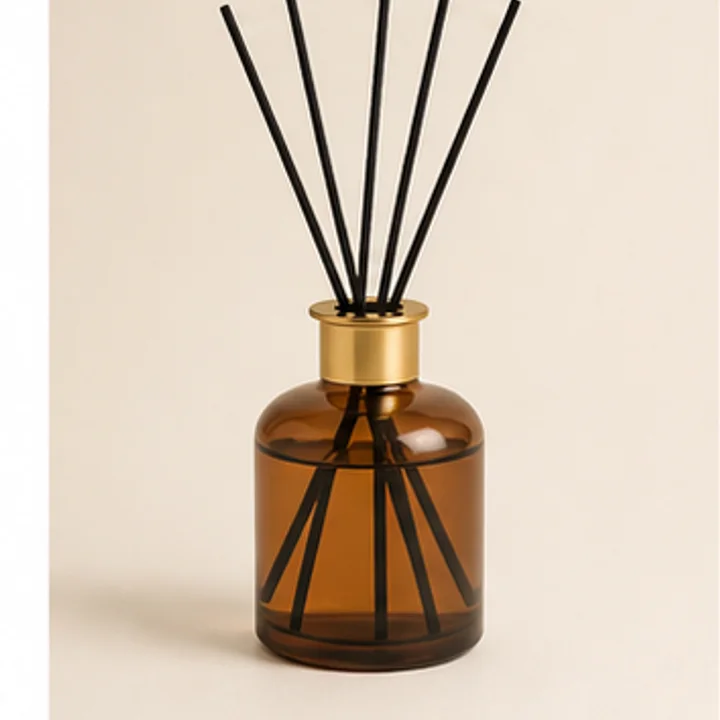
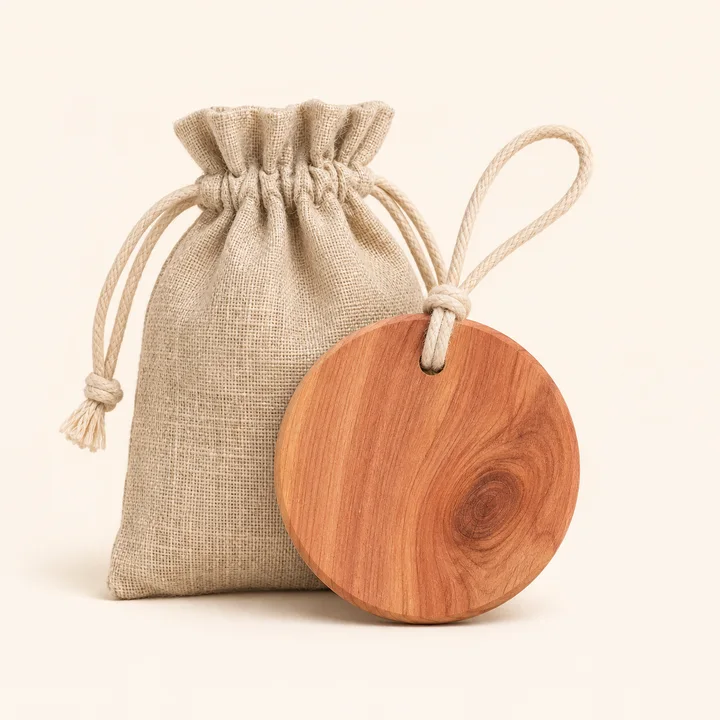
timehouseholdlifehall

diff --git a/src/main.jsx b/src/main.jsx
@@ -4,10 +4,10 @@ import './styles.css'
 
 const groups = [
   ['Furniture', [['沙发', 'Sora Linen Sofa', '浅沙色亚麻三人沙发', 899], ['床', 'Mori Platform Bed', '橡木低台双人床', 799], ['衣柜', 'Haven Wardrobe', '烟熏橡木双门衣柜', 699], ['餐桌', 'Forma Dining Table', '胡桃木六人餐桌', 649], ['茶几', 'Arc Coffee Table', '弧形橡木茶几', 299], ['电视柜', 'Line TV Cabinet', '藤编门电视柜', 429], ['斗柜', 'Stack Chest', '五斗抽屉柜', 589], ['餐边柜', 'Noma Sideboard', '奶油色餐边柜', 539], ['书柜', 'Grid Bookcase', '开放式模块书柜', 459], ['书桌', 'Plain Writing Desk', '极简木质书桌', 329]]],
-  ['Soft Furnishings', [['椅子', 'Dune Lounge Chair', '沙色休闲椅', 259], ['餐椅', 'Oak Dining Chair', '弯木餐椅', 159], ['梳妆台', 'Mira Vanity', '带抽屉梳妆台', 379], ['床头柜', 'Nook Nightstand', '圆角床头柜', 189], ['鞋柜', 'Tuck Shoe Cabinet', '窄型翻斗鞋柜', 279], ['玄关柜', 'Entry Console', '玄关收纳台', 319], ['休闲椅', 'Cove Accent Chair', '鼠尾草绿休闲椅', 289], ['酒柜', 'Cellar Bar Cabinet', '小型木质酒柜', 499], ['储物柜', 'Fold Storage Cabinet', '折叠门储物柜', 349], ['户外桌椅', 'Patio Bistro Set', '户外藤编桌椅套装', 399]]],
+  ['Soft Furnishings', [['餐椅', 'Oak Dining Chair', '弯木餐椅', 159], ['梳妆台', 'Mira Vanity', '带抽屉梳妆台', 379], ['床头柜', 'Nook Nightstand', '圆角床头柜', 189], ['鞋柜', 'Tuck Shoe Cabinet', '窄型翻斗鞋柜', 279], ['玄关柜', 'Entry Console', '玄关收纳台', 319], ['休闲椅', 'Cove Accent Chair', '鼠尾草绿休闲椅', 289], ['酒柜', 'Cellar Bar Cabinet', '小型木质酒柜', 499], ['储物柜', 'Fold Storage Cabinet', '折叠门储物柜', 349], ['户外桌椅', 'Patio Bistro Set', '户外藤编桌椅套装', 399], ['折叠床', 'Foldaway Guest Bed', '便携折叠床', 249]]],
   ['Daily Living', [['床上四件套', 'Cloud Cotton Bedding', '纯棉暖白四件套', 119], ['收纳箱', 'Canvas Storage Trunk', '帆布盖式收纳箱', 49], ['地垫', 'Pebble Floor Mat', '鹅卵石纹入户地垫', 39], ['被子', 'Airy Summer Quilt', '轻柔夏凉被', 89], ['枕头', 'Rest Support Pillow', '高弹支撑枕', 45], ['床笠', 'Washed Fitted Sheet', '水洗棉床笠', 59], ['浴巾', 'Terry Bath Towel', '厚绒纯棉浴巾', 35], ['浴袍', 'Navy Cloud Robe', '深海军蓝纯棉浴袍', 69], ['洗衣篮', 'Loop Laundry Basket', '编织双耳洗衣篮', 59], ['收纳盒', 'Clear Stack Box', '布艺堆叠收纳盒', 29]]],
-  ['Decor & Lighting', [['收纳袋', 'Linen Storage Bag', '亚麻衣物收纳袋', 25], ['衣架', 'Natural Hangers', '天然木质衣架套装', 25], ['防尘罩', 'Garment Dust Cover', '衣物防尘罩', 19], ['纸巾盒', 'Woven Tissue Cover', '藤编纸巾盒', 29], ['家居拖鞋', 'Quiet House Slippers', '软底家居拖鞋', 25], ['香薰', 'Scented Wood Sachet', '天然木片香薰挂饰', 39], ['台灯', 'Moss Table Lamp', '布艺暖光台灯', 79], ['落地灯', 'Arc Floor Lamp', '弧形落地灯', 149], ['壁灯', 'Brass Wall Light', '拉丝金属壁灯', 99], ['装饰时钟', 'Tempo Clock', '静音装饰时钟', 59]]],
-  ['Kitchen & Bath', [['木质装饰托盘', 'Walnut Decor Tray', '天然胡桃木装饰托盘', 49], ['烛台', 'Wooden Candle Stand', '木质烛台', 35], ['雕塑摆件', 'Bamboo Form Sculpture', '竹木几何雕塑摆件', 59], ['餐垫', 'Woven Placemat', '天然纤维餐垫四件套', 35], ['桌布', 'Washed Tablecloth', '水洗棉桌布', 49], ['隔热垫', 'Braided Trivet', '编织隔热垫', 19], ['厨房置物架', 'Counter Shelf', '双层厨房置物架', 49], ['浴帘', 'Clay Shower Curtain', '陶土色浴帘', 59], ['浴室防滑垫', 'Cloud Bath Mat', '雾蓝浴室防滑垫', 39], ['毛巾架', 'Brushed Towel Rail', '拉丝金属毛巾架', 45]]],
+  ['Decor & Lighting', [['收纳箱', 'Canvas Storage Trunk', '帆布盖式收纳箱', 49], ['衣架', 'Natural Hangers', '天然木质衣架套装', 25], ['防尘罩', 'Garment Dust Cover', '衣物防尘罩', 19], ['纸巾盒', 'Woven Tissue Cover', '藤编纸巾盒', 29], ['家居拖鞋', 'Quiet House Slippers', '软底家居拖鞋', 25], ['香薰', 'Scented Wood Sachet', '天然木片香薰挂饰', 39], ['台灯', 'Moss Table Lamp', '布艺暖光台灯', 79], ['落地灯', 'Arc Floor Lamp', '弧形落地灯', 149], ['壁灯', 'Brass Wall Light', '拉丝金属壁灯', 99], ['装饰时钟', 'Tempo Clock', '静音装饰时钟', 59]]],
+  ['Kitchen & Bath', [['木质装饰托盘', 'Walnut Decor Tray', '天然胡桃木装饰托盘', 49], ['烛台', 'Brass Candle Holder', '拉丝黄铜烛台', 35], ['雕塑摆件', 'Sculptural Ornament', '抽象造型装饰摆件', 59], ['餐垫', 'Woven Placemat', '天然纤维餐垫四件套', 35], ['桌布', 'Washed Tablecloth', '水洗棉桌布', 49], ['隔热垫', 'Braided Trivet', '编织隔热垫', 19], ['厨房置物架', 'Counter Shelf', '双层厨房置物架', 49], ['浴帘', 'Clay Shower Curtain', '陶土色浴帘', 59], ['浴室防滑垫', 'Cloud Bath Mat', '雾蓝浴室防滑垫', 39], ['毛巾架', 'Brushed Towel Rail', '拉丝金属毛巾架', 45]]],
 ]
 const products = groups.flatMap(([category, items], groupIndex) => items.map(([type, name, description, price], index) => ({ id: groupIndex * 10 + index + 1, category, type, name, description, price, image: `catalog-${String(groupIndex * 10 + index + 1).padStart(2, '0')}.webp` })))
 const policyData = { payment: ['付款政策', '支持 PayPal、Visa 与信用卡选项。当前结算页为演示流程，提交后不会产生真实扣款。正式上线前请接入支付服务商账户、服务器订单校验与退款流程。'], returns: ['退货与退款', '签收后 14 天内可提交退货申请。商品须保持未使用、未清洗并保留完整包装。审核通过后按原支付方式退款。'], cancellation: ['取消政策', '订单尚未进入发货流程前可联系客服取消。已发货订单需按照退货流程处理。'], about: ['关于我们', '汝州市典辰商贸有限公司致力于为日常生活提供实用、耐看、易融入空间的家居用品。'], shipping: ['发货政策', '订单确认后通常在 2–5 个工作日内处理。大件家具的运输时间与费用以结算页显示为准。'], tracking: ['订单追踪', '发货后我们会通过订单邮箱发送物流单号。演示站暂不连接真实物流接口。'], terms: ['服务条款（17 个部分）', '1. 条款接受\n2. 网站使用\n3. 商品信息\n4. 价格与库存\n5. 订单确认\n6. 付款方式\n7. 配送范围\n8. 收货验货\n9. 退货申请\n10. 退款处理\n11. 取消订单\n12. 知识产权\n13. 用户内容\n14. 隐私与数据\n15. 责任限制\n16. 条款修改\n17. 联系方式'], privacy: ['隐私政策', '我们仅在处理订单、配送、客服和网站安全所必需的范围内使用信息。不会出售个人信息。'], dmca: ['DMCA', '如你认为网站内容侵犯版权，请发送作品说明、侵权页面、权利证明与联系方式至 btcudeoff@outlook.com。'] }
